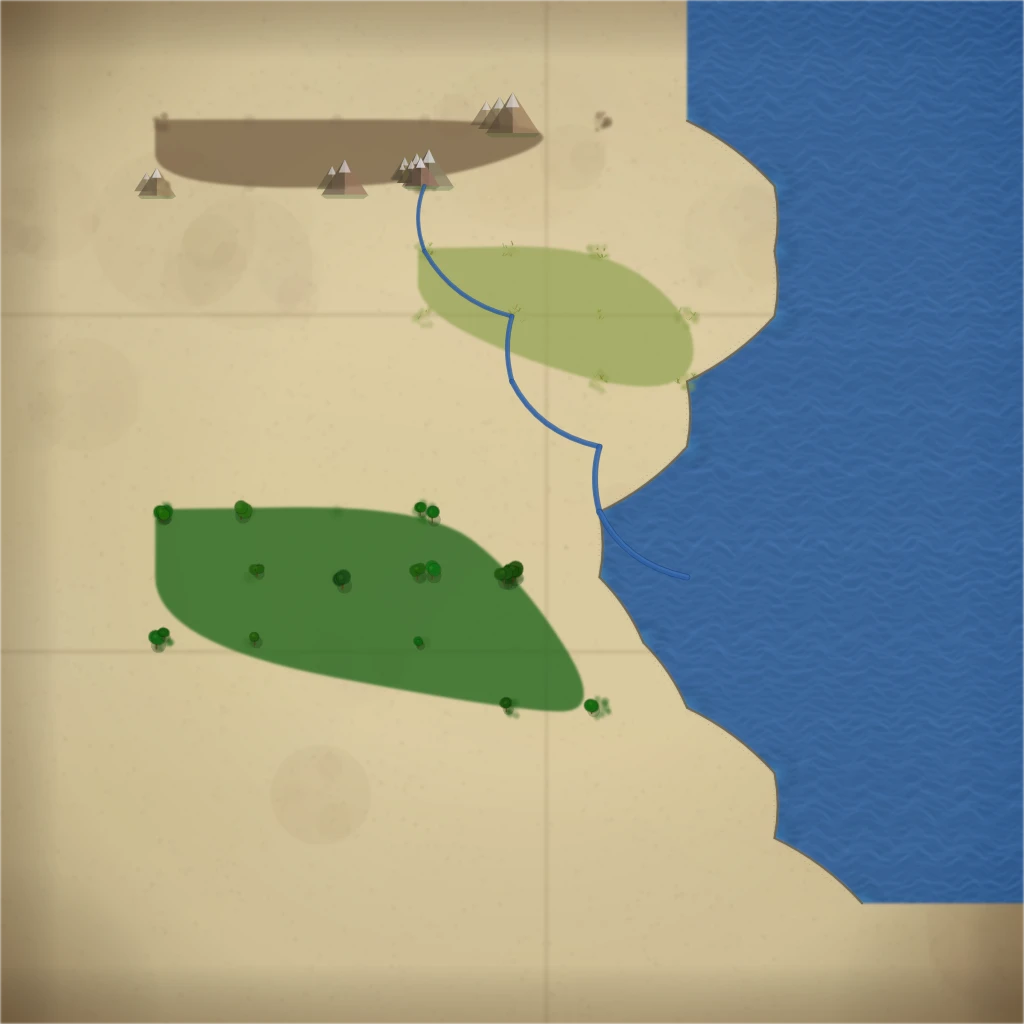
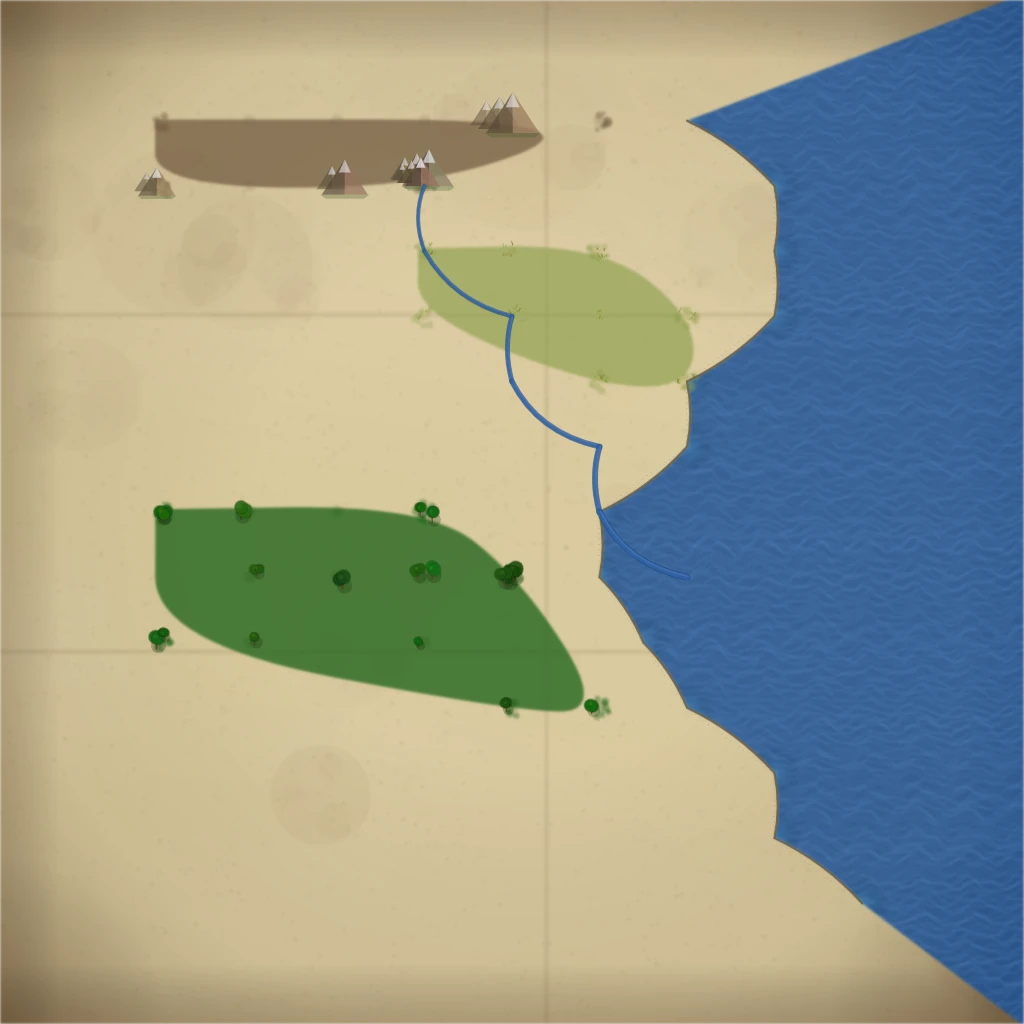
fix: 해안선 바다 채우기 방향 자동 판단 (sea coords 기반)
기존 로직은 바다가 항상 캔버스 오른쪽에 있다고 가정하여 복잡한 해안선
(에르시아 등)에서 육지까지 파란색으로 범람하는 버그가 있었음.

변경 내용:
- sea 타입 terrain coords의 중심점으로 바다 방향 자동 판단
- 4코너 방식으로 해안선 끝점에서 바다쪽 캔버스 변을 따라 폴리곤 구성
- 시계/반시계 양방향 탐색 후 바다쪽 코너를 더 많이 경유하는 경로 선택
- 파도 텍스처 범위도 바다 방향에 맞게 조정
- sea coords 없는 경우(terrain_only) 해안선 반대편 추정 폴백

Changed region(s): [[0.6562, 0.0, 0.9688, 0.125], [0.8438, 0.875, 1.0, 1.0]]

diff --git a/core/world_map.py b/core/world_map.py
@@ -746,6 +746,13 @@ def generate_world_map():
     # ─── 2단계: 지형 패턴 렌더링 ───
 
     # ── 2단계-A: 해안선 폴리곤으로 바다 영역 채우기 ──
+    # sea 타입 좌표 수집 (바다 방향 판단용)
+    _all_sea_pixels = []
+    for _sf in terrain.get("features", []):
+        if _sf.get("type") == "sea" and "coords" in _sf:
+            for _sc in _sf["coords"]:
+                _all_sea_pixels.append(to_pixel(_sc[0], _sc[1]))
+
     _has_coastline_path = False
     for feat in terrain.get("features", []):
         if feat.get("type") == "coastline" and "path" in feat and len(feat["path"]) >= 2:
@@ -765,10 +772,77 @@ def generate_world_map():
                 cpx = (prev_x + px) / 2 + (py - prev_y) * 0.1
                 cpy = (prev_y + py) / 2 - (px - prev_x) * 0.1
                 sea_path.quadTo(cpx, cpy, px, py)
-            sea_path.lineTo(W + 10, last_py)
-            sea_path.lineTo(W + 10, H + 10)
-            sea_path.lineTo(W + 10, -10)
-            sea_path.lineTo(first_px, -10)
+
+            # sea coords 기반 바다 방향 판단 → 해안선 끝점에서 올바른 캔버스 변으로 확장
+            _corners = [(-10, -10), (W + 10, -10), (W + 10, H + 10), (-10, H + 10)]
+            if _all_sea_pixels:
+                _sea_cx = sum(p[0] for p in _all_sea_pixels) / len(_all_sea_pixels)
+                _sea_cy = sum(p[1] for p in _all_sea_pixels) / len(_all_sea_pixels)
+            else:
+                # sea coords 없으면 해안선 반대편(캔버스 중심 대비)으로 추정
+                _coast_cx = sum(p[0] for p in coast_pixels) / len(coast_pixels)
+                _coast_cy = sum(p[1] for p in coast_pixels) / len(coast_pixels)
+                _sea_cx = W - _coast_cx
+                _sea_cy = H - _coast_cy
+
+            # 해안선 끝점 → 바다 방향 캔버스 코너들 → 해안선 시작점 순서로 폴리곤 닫기
+            # 4코너를 sea 중심에 가까운 순서로 정렬, 끝점/시작점에서 자연스럽게 연결
+            def _corner_dist_to_sea(c):
+                return (c[0] - _sea_cx) ** 2 + (c[1] - _sea_cy) ** 2
+
+            _sea_corners = sorted(_corners, key=_corner_dist_to_sea)
+
+            # 끝점 → 가장 가까운 코너 → 바다쪽 코너들 → 시작점에 가장 가까운 코너 → 시작점
+            # 바다쪽 코너: sea 중심까지 거리가 해안선 중심까지 거리보다 짧은 코너
+            _coast_cx2 = sum(p[0] for p in coast_pixels) / len(coast_pixels)
+            _coast_cy2 = sum(p[1] for p in coast_pixels) / len(coast_pixels)
+            _coast_dist_threshold = (_coast_cx2 - _sea_cx) ** 2 + (_coast_cy2 - _sea_cy) ** 2
+            _sea_side_corners = [c for c in _corners if _corner_dist_to_sea(c) < _coast_dist_threshold]
+            if not _sea_side_corners:
+                # 모든 코너가 해안선 쪽 → sea 중심에 가장 가까운 2개 사용
+                _sea_side_corners = _sea_corners[:2]
+
+            # 끝점에서 시작점까지 바다쪽 코너를 경유하여 연결
+            # 코너 순서: 캔버스 외곽을 시계방향으로 순회 (끝점 → 시작점)
+            _corner_order = [(-10, -10), (W + 10, -10), (W + 10, H + 10), (-10, H + 10)]
+            _sea_set = set((int(c[0]), int(c[1])) for c in _sea_side_corners)
+
+            # 끝점에 가장 가까운 바다쪽 코너에서 시작, 시계방향으로 순회
+            def _dist(a, b):
+                return (a[0] - b[0]) ** 2 + (a[1] - b[1]) ** 2
+
+            _start_corner = min(_sea_side_corners, key=lambda c: _dist(c, (last_px, last_py)))
+            _end_corner = min(_sea_side_corners, key=lambda c: _dist(c, (first_px, first_py)))
+
+            # 시계방향 순회로 바다쪽 코너 경유
+            _si = _corner_order.index(_start_corner)
+            _ei = _corner_order.index(_end_corner)
+            _path_corners = []
+            _ci = _si
+            while True:
+                _path_corners.append(_corner_order[_ci])
+                if _ci == _ei:
+                    break
+                _ci = (_ci + 1) % 4
+
+            # 반시계방향도 시도, 더 짧은 경로 선택
+            _path_corners_ccw = []
+            _ci = _si
+            while True:
+                _path_corners_ccw.append(_corner_order[_ci])
+                if _ci == _ei:
+                    break
+                _ci = (_ci - 1) % 4
+
+            # 바다쪽 코너를 더 많이 포함하는 경로 선택 (같으면 짧은 쪽)
+            _cw_sea = sum(1 for c in _path_corners if (int(c[0]), int(c[1])) in _sea_set)
+            _ccw_sea = sum(1 for c in _path_corners_ccw if (int(c[0]), int(c[1])) in _sea_set)
+            if _ccw_sea > _cw_sea or (_ccw_sea == _cw_sea and len(_path_corners_ccw) < len(_path_corners)):
+                _path_corners = _path_corners_ccw
+
+            for _pc in _path_corners:
+                sea_path.lineTo(_pc[0], _pc[1])
+            sea_path.lineTo(first_px, first_py)
             sea_path.close()
 
             # 바다 영역을 진한 남색으로 채우기
@@ -792,10 +866,19 @@ def generate_world_map():
                                            cpx_c + tw * 3, cpy_c + tw * 3), p)
 
             # 파도 텍스처 (바다 영역 내, clip 안에서)
-            sea_min_x = min(p[0] for p in coast_pixels)
-            sea_max_x = W + 10
-            sea_min_y = min(-10, min(p[1] for p in coast_pixels) - tw)
-            sea_max_y = max(H + 10, max(p[1] for p in coast_pixels) + tw)
+            # 바다 방향에 따라 파도 영역 범위 결정
+            _coast_min_x = min(p[0] for p in coast_pixels)
+            _coast_max_x = max(p[0] for p in coast_pixels)
+            _coast_min_y = min(p[1] for p in coast_pixels)
+            _coast_max_y = max(p[1] for p in coast_pixels)
+            if _sea_cx < _coast_cx2:
+                sea_min_x = -10
+                sea_max_x = _coast_max_x
+            else:
+                sea_min_x = _coast_min_x
+                sea_max_x = W + 10
+            sea_min_y = min(-10, _coast_min_y - tw)
+            sea_max_y = max(H + 10, _coast_max_y + tw)
             sea_area_h = sea_max_y - sea_min_y
             wave_count = max(20, int(sea_area_h / 3))
             for wi in range(wave_count):
